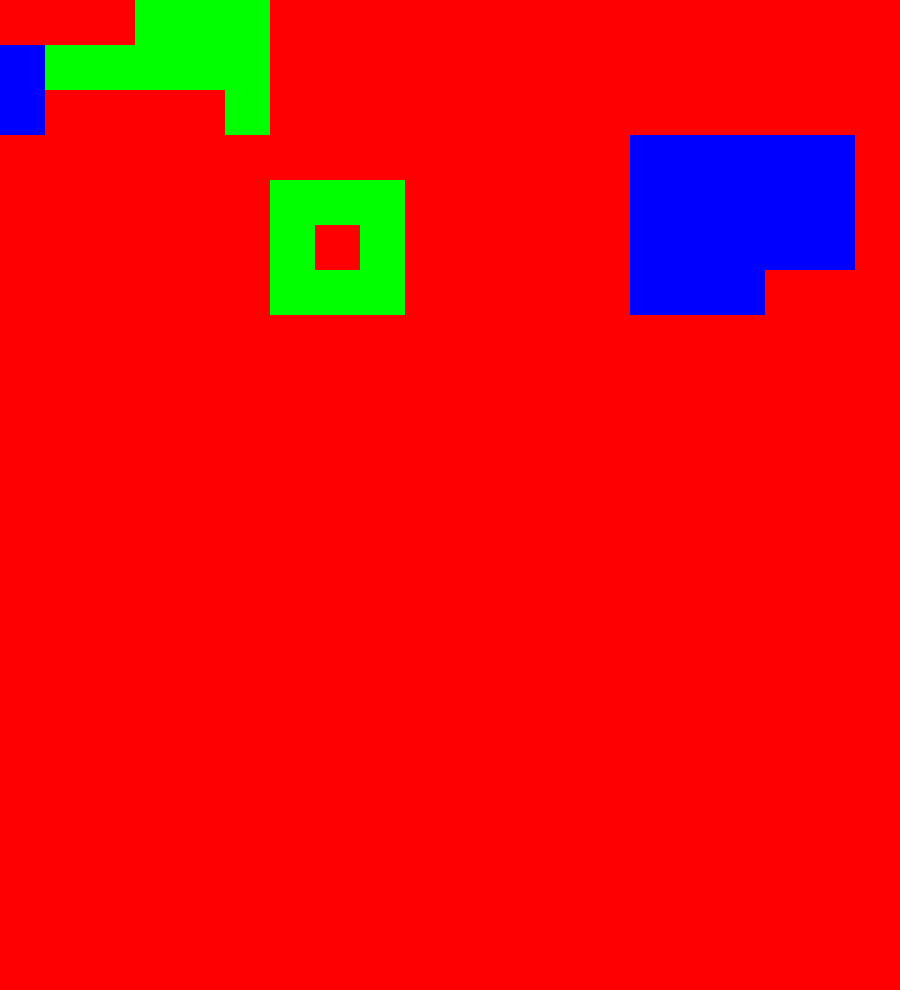
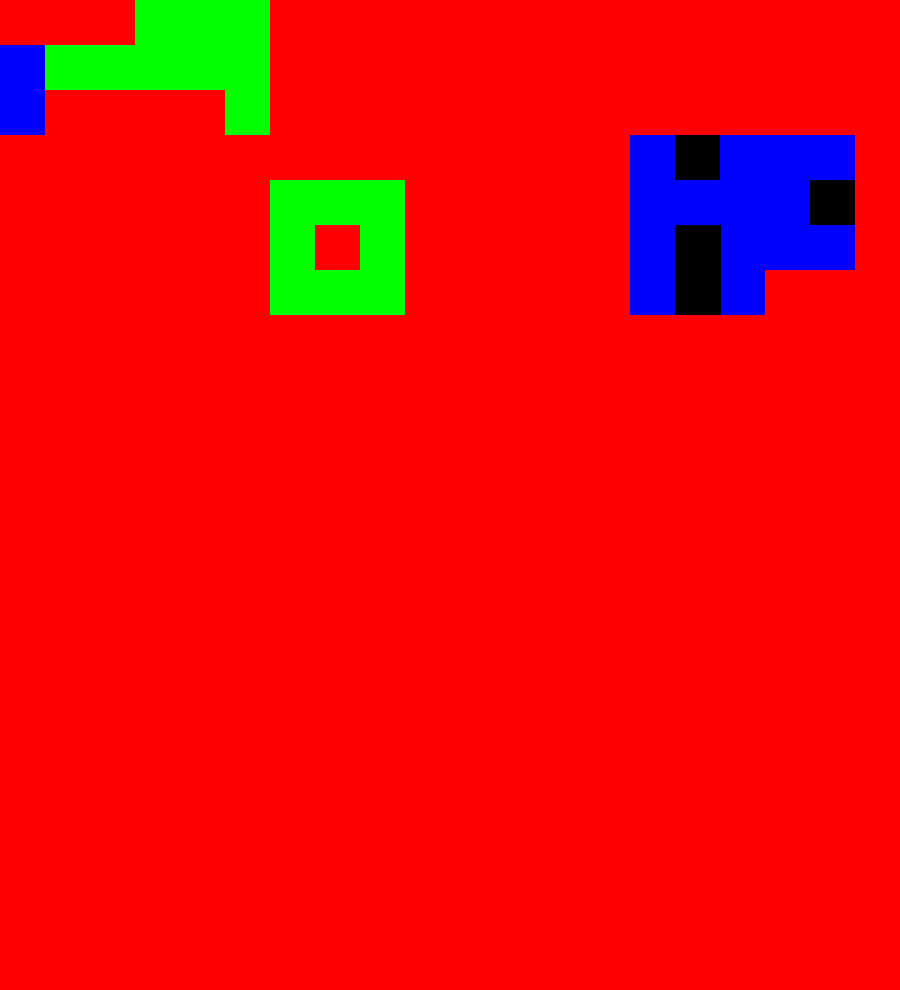
Haciendo prueba de boquetes en el circuito, también haciendo cambios menores en algunos módulos

Changed region(s): [[0.7467, 0.2121, 0.8089, 0.3333], [0.9022, 0.1818, 0.9644, 0.2424], [0.7467, 0.1212, 0.8089, 0.1818]]

diff --git a/engine/collisionmanager.py b/engine/collisionmanager.py
@@ -259,7 +259,7 @@ class CollisionManager:
                 #sprite.actual_speed *= -1
                 
         #Si hemos obtenido colisión y es de tipo lag
-        elif result and result['type'] == circuit.LAG:
+        elif result and (result['type'] == circuit.LAG or result['type'] == circuit.HOLE):
             
             #Si el coche va mas rapido que la mitad de su velocidad maxima
             if(abs(sprite.actual_speed) > (abs(sprite.get_max_speed()) / 2)):
@@ -269,6 +269,9 @@ class CollisionManager:
                     sprite.actual_speed = abs(sprite.get_max_speed()) / 2
                 else:
                     sprite.actual_speed = -1 * (abs(sprite.get_max_speed()) / 2)
+        
+        '''elif result and result['type'] == circuit.HOLE and sprite.get_state() != gameobject.FALL and sprite.old_state != gameobject.FALL:
+            sprite.set_state(gameobject.FALL)'''
                 
     def __collision_ver(self, sprite, circ, direction):
 
@@ -283,6 +286,18 @@ class CollisionManager:
         i = tile_y0
         
         while i <= tile_y1:
+            '''type0 = circ.get_tile(0, tilecoordx, i).type
+            type1 = circ.get_tile(1, tilecoordx, i).type
+            if  (type1 != circuit.PASSABLE) or \
+            (type0 != circuit.PASSABLE):
+                tilecoordx *= circ.get_tile_width()
+                
+                result = {}
+                result['type'] = type0 if type0 != circuit.PASSABLE else type1
+                result['rect'] = pygame.Rect((tilecoordx, i * circ.get_tile_height(), \
+                circ.get_tile_width(), circ.get_tile_height()))
+                
+                return result'''
             if (circ.get_tile(1, tilecoordx, i).type == circuit.NOPASSABLE) or \
             (circ.get_tile(0, tilecoordx, i).type == circuit.NOPASSABLE):
                 tilecoordx *= circ.get_tile_width()
@@ -296,9 +311,21 @@ class CollisionManager:
             
             elif (circ.get_tile(1, tilecoordx, i).type == circuit.LAG) or \
             (circ.get_tile(0, tilecoordx, i).type == circuit.LAG):
+                tilecoordx *= circ.get_tile_width()
                 
                 result = {}
                 result['type'] = circuit.LAG
+                result['rect'] = pygame.Rect((tilecoordx, i * circ.get_tile_height(), \
+                circ.get_tile_width(), circ.get_tile_height()))
+                
+                return result
+
+            elif (circ.get_tile(1, tilecoordx, i).type == circuit.HOLE) or \
+            (circ.get_tile(0, tilecoordx, i).type == circuit.HOLE):
+                tilecoordx *= circ.get_tile_width()
+
+                result = {}
+                result['type'] = circuit.HOLE
                 result['rect'] = pygame.Rect((tilecoordx, i * circ.get_tile_height(), \
                 circ.get_tile_width(), circ.get_tile_height()))
                 
@@ -321,21 +348,46 @@ class CollisionManager:
         i = tile_x0
         
         while i <= tile_x1:
+            '''type0 = circ.get_tile(0, i, tilecoordy).type
+            type1 = circ.get_tile(1, i, tilecoordy).type
+            if (type1 != circuit.PASSABLE) or \
+             (type0 != circuit.PASSABLE):
+                tilecoordy *= circ.get_tile_height()
+                
+                result = {}
+                result['type'] = type0 if type0 != circuit.PASSABLE else type1
+                result['rect'] = pygame.Rect((i * circ.get_tile_width(), tilecoordy, \
+                circ.get_tile_width(), circ.get_tile_height()))
+                
+                return result'''
             if (circ.get_tile(1, i, tilecoordy).type == circuit.NOPASSABLE) or \
             (circ.get_tile(0, i, tilecoordy).type == circuit.NOPASSABLE):
                 tilecoordy *= circ.get_tile_height()
                 
                 result = {}
                 result['type'] = circuit.NOPASSABLE
-                resutl['rect'] = pygame.Rect((i * circ.get_tile_width(), tilecoordy, \
+                result['rect'] = pygame.Rect((i * circ.get_tile_width(), tilecoordy, \
                 circ.get_tile_width(), circ.get_tile_height()))
                 
-                return rect
+                return result
+                
             elif (circ.get_tile(1, i, tilecoordy).type == circuit.LAG) or \
             (circ.get_tile(0, i, tilecoordy).type == circuit.LAG):
+                tilecoordy *= circ.get_tile_height()
                 
                 result = {}
                 result['type'] = circuit.LAG
+                result['rect'] = pygame.Rect((i * circ.get_tile_width(), tilecoordy, \
+                circ.get_tile_width(), circ.get_tile_height()))
+                
+                return result
+
+            elif (circ.get_tile(1, i, tilecoordy).type == circuit.HOLE) or \
+            (circ.get_tile(0, i, tilecoordy).type == circuit.HOLE):
+                tilecoordy *= circ.get_tile_height()
+
+                result = {}
+                result['type'] = circuit.HOLE
                 result['rect'] = pygame.Rect((i * circ.get_tile_width(), tilecoordy, \
                 circ.get_tile_width(), circ.get_tile_height()))
                 

diff --git a/engine/gamecontrol.py b/engine/gamecontrol.py
@@ -22,7 +22,7 @@ class GameControl(state.State):
     @brief Clase encargada de controlar los aspectos básicos de una carrera, desde
     las colisiones hasta el control de las vueltas
     '''
-    def __init__(self, game, path):
+    def __init__(self, game, path, laps = 3):
         '''
         @brief Constructor
         
@@ -55,7 +55,7 @@ class GameControl(state.State):
         self.start = None
         
         #Vueltas al circuito
-        self.max_laps = 3
+        self.max_laps = laps
         self.actual_laps = 0
         
         #Contador de vueltas
@@ -67,8 +67,8 @@ class GameControl(state.State):
         #Cronómetros de carrera
         self.actual_time = timer.Timer('cheesebu', 30, (0, 0, 0), 700, 10, "Actual:")
         self.best_time = timer.Timer('cheesebu', 30, (0, 0, 0), 700, 80, "Mejor:")
-        #self.total_time = timer.Timer('cheesebu', 30, (0, 0, 0), 700, 150, "Total:")
         self.best_time.set_minutes(10)
+        self.total_time = timer.Timer('cheesebu', 30, (0, 0, 0), 700, 150, "Total:")
                 
         #Circuito actual que vamos a jugar.
         self.circuit = circuit.Circuit(self, path)
@@ -80,7 +80,7 @@ class GameControl(state.State):
         self.pause = pausemenu.PauseMenu(self.game, self, 'menu/pausemenu.xml')
         
         #Cuenta atras
-        self.count_down = countdown.CountDown('cheesebu', 300, 0.02, 0.025, (221, 113, 5), 0)
+        self.count_down = countdown.CountDown('cheesebu', 300, 0.02, 0.05, (221, 113, 5), 3)
         
         #Indicamos el estado
         self.actual_state = 'race'
@@ -103,6 +103,7 @@ class GameControl(state.State):
             if self.count_down.complete():
                 self.actual_state = 'race'
                 self.actual_time.start()
+                self.total_time.start()
 
         #Si estamos en pause, actualizamos el menú de pause
         elif self.actual_state == 'pause':
@@ -113,6 +114,7 @@ class GameControl(state.State):
                         
             #Actualizamos el tiempo actual
             self.actual_time.update()
+            self.total_time.update()
             
             #Actualizamos al coche del jugador.
             self.player.update()
@@ -140,7 +142,9 @@ class GameControl(state.State):
             self.checkpoints.update(self.player)
 
             #Si pulsamos el espacio o escape, cambiamos al estado pause
-            if keyboard.pressed(K_SPACE) or keyboard.pressed(K_ESCAPE):
+            if keyboard.pressed(K_ESCAPE) or keyboard.pressed(K_p) \
+                or not pygame.key.get_focused():
+                    
                 self.actual_state = 'pause'
                 self.actual_time.pause()
                 self.player.set_state(gameobject.NOACTION)
@@ -178,6 +182,7 @@ class GameControl(state.State):
         #Mostramos los dos cronómetros
         self.actual_time.draw(screen)
         self.best_time.draw(screen)
+        self.total_time.draw(screen)
         
         #Mostramos el marcador de vueltas
         screen.blit(self.laps_counter, (self.laps_counter_rect))
@@ -379,7 +384,8 @@ class GameControl(state.State):
         
         #Indicamos la posicion
         self.laps_counter_rect = self.laps_counter.get_rect()
-        self.laps_counter_rect.centerx = pygame.display.get_surface().get_width() / 2
+        #self.laps_counter_rect.centerx = pygame.display.get_surface().get_width() / 2
+        self.laps_counter_rect.x = 50
         self.laps_counter_rect.y = 10
     
     def on_screen(self, element):

diff --git a/engine/circuit.py b/engine/circuit.py
@@ -11,7 +11,7 @@ import pygame
 import math
 
 #Distintos tipos de tiles
-PASSABLE, NOPASSABLE, LAG = range(3)
+PASSABLE, NOPASSABLE, LAG, HOLE = range(4)
 
 class Tile:
     '''
@@ -94,6 +94,7 @@ class Circuit:
         print "Tileset_height: " + str(tileset_height) + ' Tileset_width: ' + str(tileset_width)
         
         self.tileset = data.load_sprite(image_name, tileset_height, tileset_width)
+        collision_map_prueba = data.load_sprite(collision_map_name, tileset_height, tileset_width)#, tileset_height, tileset_width)
         collision_map = data.load_image(collision_map_name)#, tileset_height, tileset_width)
 
         #Suponiendo que 4 sera el numero de capas que tendrá el mapa
@@ -137,16 +138,22 @@ class Circuit:
                     p_x = (((frame - 1) % tileset_width) % tileset_width) * self.tile_height;
                     p_y = ((frame - 1) / tileset_width) * self.tile_width
                     
-                    if pxarray[p_x][p_y] == pxarray_tile_types[0]:
+                    #if pxarray[p_x][p_y] == pxarray_tile_types[0]:
+                    if collision_map_prueba[frame - 1].get_at((0,0)) == (255, 0, 0):
                         self.map[num_layer][num_row][num_column].type = PASSABLE
                         #print "El tile: " + str(self.map[num_layer][num_row][num_column].frame - 1) + " es pasable."
                         
-                    elif pxarray[p_x][p_y] == pxarray_tile_types[1]:
+                    #elif pxarray[p_x][p_y] == pxarray_tile_types[1]:
+                    elif collision_map_prueba[frame - 1].get_at((0,0)) == (0, 255, 0):
                         self.map[num_layer][num_row][num_column].type = NOPASSABLE
                         #print "El tile: " + str(self.map[num_layer][num_row][num_column].frame - 1) + " NO es pasable."
                         
-                    elif pxarray[p_x][p_y] == pxarray_tile_types[2]:
+                    #elif pxarray[p_x][p_y] == pxarray_tile_types[2]:
+                    elif collision_map_prueba[frame - 1].get_at((0,0)) == (0, 0, 255):
                         self.map[num_layer][num_row][num_column].type = LAG
+                    
+                    elif collision_map_prueba[frame - 1].get_at((0,0)) == (0, 0, 0):
+                        self.map[num_layer][num_row][num_column].type = HOLE
                         
                     else:
                         self.map[num_layer][num_row][num_column].type = PASSABLE
@@ -161,7 +168,7 @@ class Circuit:
         #self.y = self.height * self.tile_height - pygame.display.get_surface().get_height()
         #y = alto_ * tile_alto_ - juego_->univ()->pantalla_alto();
         
-        print str(num_layer)
+        #print str(num_layer)
         self.load_elements()            
         
     def draw(self, screen, layer):

diff --git a/engine/resource.py b/engine/resource.py
@@ -68,9 +68,10 @@ def get_image(image_code):
 	'''
     __check_initialize()
     if __images.has_key(image_code):
-        print "Imagen " + image_code + " ya cargada."
+        pass
+        #print "Imagen " + image_code + " ya cargada."
     else:
-        print "Imagen " + str(image_code) + " no estaba cargada aún, cargando..."
+        #print "Imagen " + str(image_code) + " no estaba cargada aún, cargando..."
         __images[image_code] = data.load_image(__images_info[image_code][0], __images_info[image_code][1])
         
     return __images[image_code]
@@ -81,9 +82,10 @@ def get_sprite(sprite_code):
 	'''
     __check_initialize()
     if __sprites.has_key(sprite_code):
-        print "Sprite " + sprite_code + " ya cargado"
+        pass
+        #print "Sprite " + sprite_code + " ya cargado"
     else:
-        print "Sprite " + sprite_code + " no estaba cargado aún, cargando..."
+        #print "Sprite " + sprite_code + " no estaba cargado aún, cargando..."
         __sprites[sprite_code] = data.load_sprite(__sprites_info[sprite_code][0], __sprites_info[sprite_code][1], \
                                                 __sprites_info[sprite_code][2], __sprites_info[sprite_code][3])
         
@@ -95,9 +97,10 @@ def get_sound(sound_code):
 	'''
     __check_initialize()
     if __sounds.has_key(sound_code):
-        print "Sonido " + sound_code + " ya cargado"
+        pass
+        #print "Sonido " + sound_code + " ya cargado"
     else:
-        print "Sonido " +  sound_code + " no cargado, cargado..."
+        #print "Sonido " +  sound_code + " no cargado, cargado..."
         __sounds[sound_code] = data.load_sound(__sounds_info[sound_code])
         
     return __sounds[sound_code]
@@ -108,9 +111,10 @@ def get_font(font_code, size):
 	'''
     __check_initialize()
     if __fonts.has_key((font_code, size)):
-        print "Fuente " + font_code + " con tamaño " + str(size) + " ya cargada"
+        pass
+        #print "Fuente " + font_code + " con tamaño " + str(size) + " ya cargada"
     else:
-        print "Fuente " + font_code + " con tamaño " + str(size) +  " no estaba cargada aún, cargando..."
+        #print "Fuente " + font_code + " con tamaño " + str(size) +  " no estaba cargada aún, cargando..."
         __fonts[(font_code, size)] = data.load_font(__fonts_info[font_code], size)
         
     return __fonts[(font_code, size)]

diff --git a/engine/playercar.py b/engine/playercar.py
@@ -42,8 +42,14 @@ class PlayerCar(BasicCar):
                     REVERSE: self.__reverse_state, 
                     DAMAGED: self.__damaged_state, 
                     ERASE: self.__erase_state, 
-                    YAW: self.__yaw_state
+                    YAW: self.__yaw_state,
+                    FALL: self.__fall_state
                     }
+        
+        self.falling = False
+        self.min_scale = 0.2
+        self.count_scale = 0.01
+        self.actual_scale = 1
                     
     def update(self):
         '''
@@ -55,14 +61,15 @@ class PlayerCar(BasicCar):
             
         self.states[self.state]()
         
-        self.update_position()
-        self.update_image()
-        self.update_direction()
+        if self.state != FALL:
+            self.update_position()
+            self.update_image()
+            self.update_direction()
         
-        if self.actual_angle < 0:
+        '''if self.actual_angle < 0:
             self.actual_angle += 360
         if self.actual_angle > 360:
-            self.actual_angle -= 360
+            self.actual_angle -= 360'''
         
         
     def __normal_state(self):
@@ -132,6 +139,21 @@ class PlayerCar(BasicCar):
         self.control_rotation()
         
         self.trigonometry()
+    
+    def __fall_state(self):
+        if not self.falling:
+            self.image = self.original_sprite[self.animations[self.state].get_frame()]
+            self.falling = True
+        
+        self.image = pygame.transform.rotozoom(self.image, -5, self.actual_scale)
+        self.actual_scale -= self.count_scale
+        
+        if self.actual_scale < self.min_scale:
+            self.actual_speed *= -1
+            self.state = NORMAL
+            self.old_state = FALL
+            self.falling = False
+            self.actual_scale = 1
     
     def __forward_state(self):
         pass

diff --git a/engine/gameobject.py b/engine/gameobject.py
@@ -7,7 +7,7 @@ import resource
 import xml.dom.minidom
 
 #Distinos estado que pueden tener los objetos del juego.
-NORMAL, NOACTION, RUN, FORWARD, REVERSE, DAMAGED, ERASE, YAW, EXPLOSION = range(9)
+NORMAL, NOACTION, RUN, FORWARD, REVERSE, DAMAGED, ERASE, YAW, EXPLOSION, FALL = range(10)
 
 class GameObject(pygame.sprite.Sprite):
     '''
@@ -60,6 +60,8 @@ class GameObject(pygame.sprite.Sprite):
                 self.animations[ERASE] = animation.Animation(animation_frames, animation_delay)
             elif animation_name == 'yaw':
                 self.animations[YAW] = animation.Animation(animation_frames, animation_delay)
+            elif animation_name == 'fall':
+                self.animations[FALL] = animation.Animation(animation_frames, animation_delay)
                 
             self.image = self.original_sprite[self.animations[NORMAL].get_frame()]
             self.rect = self.image.get_rect()

diff --git a/engine/animation.py b/engine/animation.py
@@ -19,7 +19,6 @@ class Animation:
         self.__frames.append(-1)
         self.__actual_frame = 0
         self.__counter_delay = 0
-        print self.__frames
         
     def restart(self):
         '''
